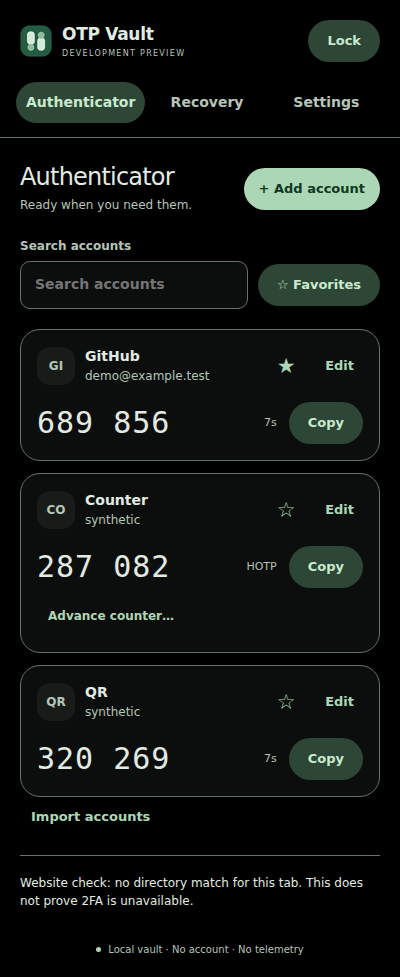
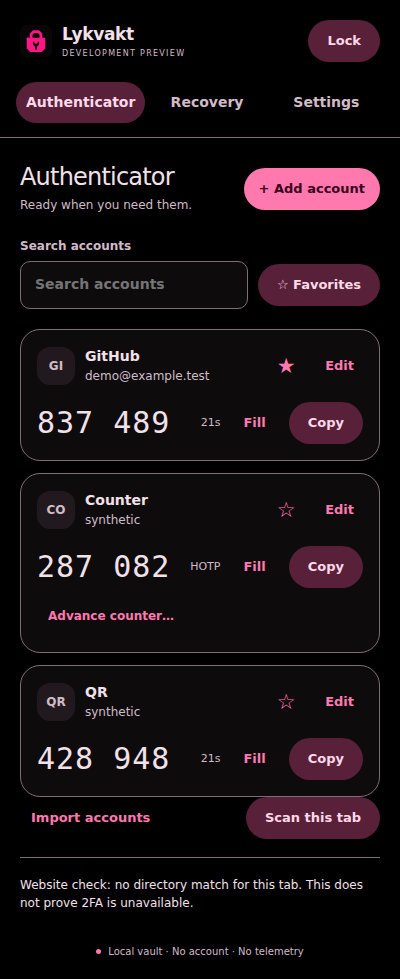
Verify legacy backup upgrades and ship Lykvakt browser evidence

diff --git a/tests/migration.test.ts b/tests/migration.test.ts
@@ -1,3 +1,4 @@
+import legacyBackup from "./fixtures/v1-backup.json";
 import { describe, it, expect } from "vitest";
 import { parseMigration, parseMigrationBatch } from "../src/migration";
 import { parseImport, toURI } from "../src/import";
@@ -164,5 +165,30 @@ describe("encrypted website approvals and schema migration", () => {
       expect(() =>
         validateData({ ...data, accounts: [{ ...a, origins: [origin] }] }),
       ).toThrow();
+  });
+});
+
+it("restores a frozen encrypted 0.1.0 backup with exact HOTP state", async () => {
+  // Generated by untouched source at b5da024, not the new schema serializer.
+  const { data } = await decryptEnvelope(
+    legacyBackup,
+    "synthetic legacy backup passphrase",
+    "backup",
+  );
+  expect(data).toMatchObject({
+    version: 2,
+    verifiedAt: null,
+    verifiedSnapshot: null,
+    accounts: [
+      {
+        issuer: "Legacy fixture",
+        algorithm: "SHA-512",
+        digits: 8,
+        counter: "9007199254740993",
+        favorite: true,
+        group: "Legacy",
+        origins: [],
+      },
+    ],
   });
 });

diff --git a/src/ui/accounts.ts b/src/ui/accounts.ts
@@ -136,7 +136,7 @@ export function createAccounts(ctx: AppContext) {
         "div",
         { class: "import-actions" },
         button("Import accounts", () => importAccounts(), "button text"),
-        isExtension
+        isExtension && !ctx.fullWindow
           ? button("Scan this tab", () => run(scanTab), "button tonal")
           : null,
       ),
@@ -267,7 +267,7 @@ export function createAccounts(ctx: AppContext) {
           { class: "code-row" },
           code,
           remaining,
-          isExtension
+          isExtension && !ctx.fullWindow
             ? button("Fill", () => run(() => fillAccount(a.id)), "button text")
             : null,
           button(

diff --git a/docs/validation.md b/docs/validation.md
@@ -3,11 +3,11 @@
 Development checks on 24 October 2026:
 
 - Strict TypeScript and Vite build passed.
-- 94 Vitest tests passed locally using the thread pool. Tests include RFC 4226 vectors, all RFC 6238 SHA variants, independent Node HMAC comparisons, strict Base32/URI parsing, import conflicts, encryption/tampering, password rewrapping, serialized backup round trips, locked session isolation, stale writer rejection, and phishing/public/private-suffix cases.
+- 109 Vitest tests passed locally using the thread pool. Tests include RFC 4226 vectors, all RFC 6238 SHA variants, independent Node HMAC comparisons, strict Base32/URI parsing, import conflicts, encryption/tampering, password rewrapping, serialized backup round trips, locked session isolation, stale writer rejection, and phishing/public/private-suffix cases.
 - npm audit reported zero known vulnerabilities in the dependency graph at the time checked. This is not an audit of the source.
 - Runtime package validation checks MV3, exact permission lists, required files and forbidden dynamic/remote code patterns.
 
-The initial Vite 8 native bundler was blocked by Windows application-control policy. The maintained Vite 7 build uses pinned WebAssembly aliases for Rollup/esbuild instead. Vitest’s fork/temp cache failed in this sandbox; the thread pool passed. Local Chrome for Testing execution was also blocked by OS application-control policy, so browser integration is delegated to the public GitHub Actions test runner, not claimed as a local success.
+The initial Vite 8 native bundler was blocked by Windows application-control policy. The maintained Vite 7 build uses pinned WebAssembly aliases for Rollup/esbuild instead. Vitest’s fork/temp cache failed in this sandbox; the thread pool passed. Local Chrome for Testing execution was also blocked by OS application-control policy, so browser integration is delegated to the GitHub Actions test runner, not claimed as a local success.
 
 `tests/browser.mjs` loads the actual unpacked extension in Chromium with generated secrets. It checks setup, reference OTPs, favorites/search, duplicates, malformed import preservation, QR, HOTP advancement/persistence, restart locking, ciphertext storage, backup download/verification/tamper rejection, themes, axe rules, overflow and network silence. Screenshots and reports are synthetic-only workflow artifacts. Physical authenticator, native permission prompts and screen-reader testing still require supervised work. Passing axe does not establish WCAG conformance.
 
@@ -15,11 +15,14 @@ No independent security audit, physical biometric tests, exhaustive migration in
 
 ## Browser evidence
 
-[Validated workflow run](https://github.com/librerob/otp-vault/actions/runs/40109486330) passed all checks on Linux Chrome for Testing 156.0.8078.4:
+[Validated workflow run](https://github.com/librerob/otp-vault/actions/runs/40133156015) passed all checks on Linux Chrome for Testing 156.0.8078.4:
 
-- 25 core browser checks, including fresh-profile recovery, eight-digit layouts at 360/600/760/1200 pixels, zero observed external requests, and zero uncaught errors.
+- 28 core browser checks, including fresh-profile recovery, eight-digit layouts at 360/600/760/1200 pixels, zero observed external requests, and zero uncaught errors.
 - Six CDP virtual-authenticator checks: master-password enrollment gate, repeated PRF key wrap/unwrap, actual PRF unlock, rejection of a non-PRF authenticator without changing the vault, wrapper revocation, and password fallback.
 - A separate headed Chromium test switched tabs through the real tabs API and verified locking.
+- Four headed tab-action checks used a real keyboard invocation of the action popup, with no added website permissions: capture → local QR preview/import; explicit exact-origin approval and actual scripting fill; no overwrite or submission; rejection of ambiguous/hidden/password/disabled/short/unapproved fields.
+- Core additions exercised incomplete/complete Google transfer QR batches, generated transfer-QR decoding and portable bulk export.
+- The 109 local unit tests additionally include a frozen encrypted backup generated by untouched 0.1.0 source, exact int64 HOTP state, origin-approval encryption and adversarial transfer parsing. The linked first feature run had 108 unit tests; the final release workflow also runs the added legacy fixture test.
 - axe reported zero applicable automated-rule violations in light, dark and AMOLED account-list views. Manual screen-reader testing and full WCAG conformance remain unverified.
 
 Earlier runs exposed an ambiguous select label, a headless visibility-test limitation and the lack of dependable visibility events for extension pages. Explicit labels and a native tab-activation lock trigger addressed the product issues. Accessibility scanning runs within the same page so its own temporary tabs do not trigger the lock. A later screenshot inspection caught a malformed search placeholder; the text and source line-ending policy were corrected before release preparation.

diff --git a/docs/compatibility.md b/docs/compatibility.md
@@ -4,7 +4,7 @@
 | ---------------------------------------------- | -------------------------------------------------------------------------------------------------------------------------- |
 | Manifest V3 / Chromium 120+ APIs               | Build target; real integration results recorded separately in validation                                                   |
 | Windows host                                   | Type checking, unit tests and build executed; local Chrome for Testing launch was blocked by OS application-control policy |
-| Linux Playwright Chromium                      | Passed 25 core checks, six virtual PRF checks and a headed tab-activation lock test                                        |
+| Linux Playwright Chromium                      | Passed 28 core, six virtual PRF, one headed tab-lock and four genuine toolbar capture/fill checks                          |
 | macOS / Touch ID                               | Not physically tested                                                                                                      |
 | Windows 10 / 11 Hello fingerprint, face or PIN | Not physically tested; PRF capability must actually yield a usable secret                                                  |
 | FIDO2 keys / third-party passkey providers     | Not physically tested; user verification plus PRF required                                                                 |
@@ -14,3 +14,5 @@
 PRF support is determined by actual returned cryptographic output and a repeatable wrap/unwrap test, not a browser or OS name. Browser support alone does not prove a particular authenticator/provider implements PRF. Password unlock remains the baseline. Credentials from a development extension origin are not portable to a different Store identity.
 
 The UI’s auto-lock timers use local inactivity and page visibility/closure. No guaranteed OS-lock signal is implemented or claimed. Manual site detection requires activeTab authorization from opening the action popup. A full extension tab has no inherited temporary access to an unrelated site. Optional automatic indicators require tabs permission and provide directory-support information only.
+
+See [migration and filling](migration-and-fill.md) for Google transfers, plaintext exports, exact-origin approvals, supported OTP fields and payload schema compatibility. Native optional-tabs prompts, physical phone imports and physical PRF devices remain manual gates.
